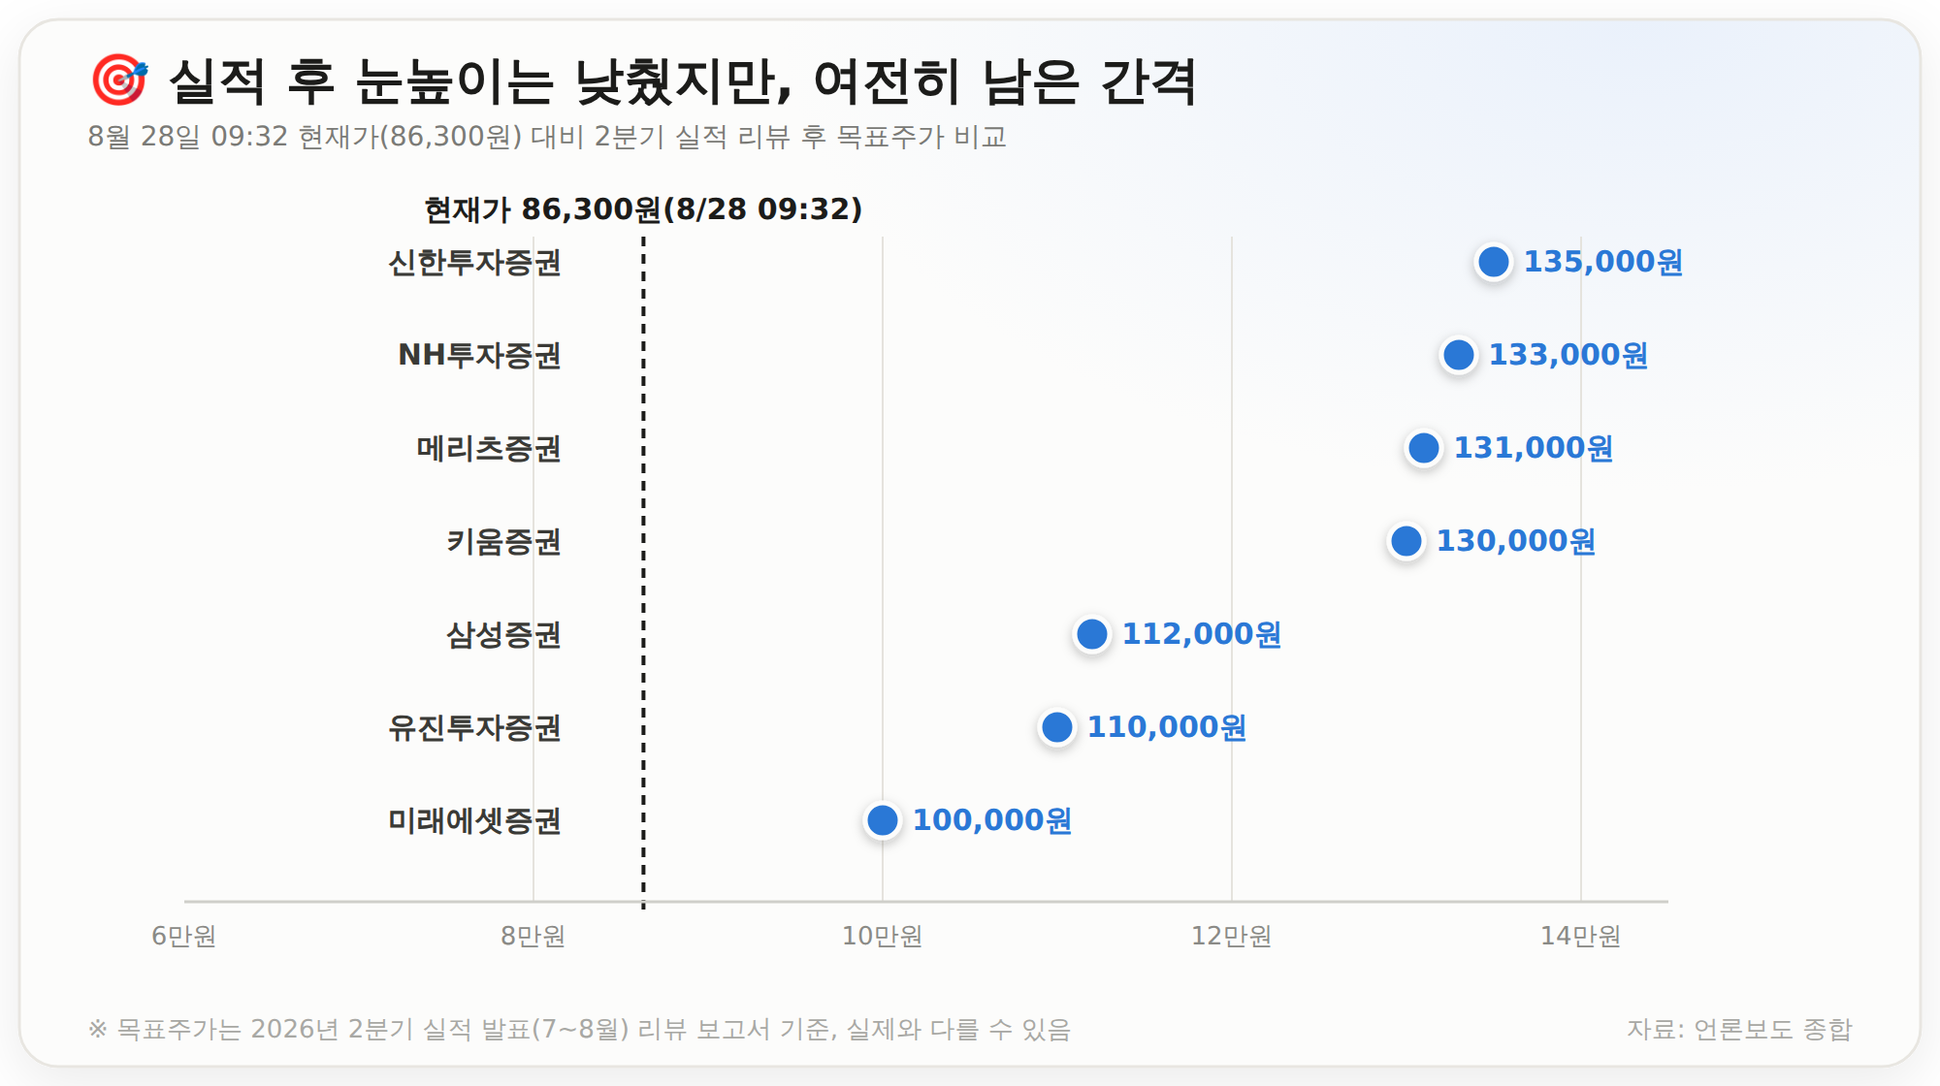
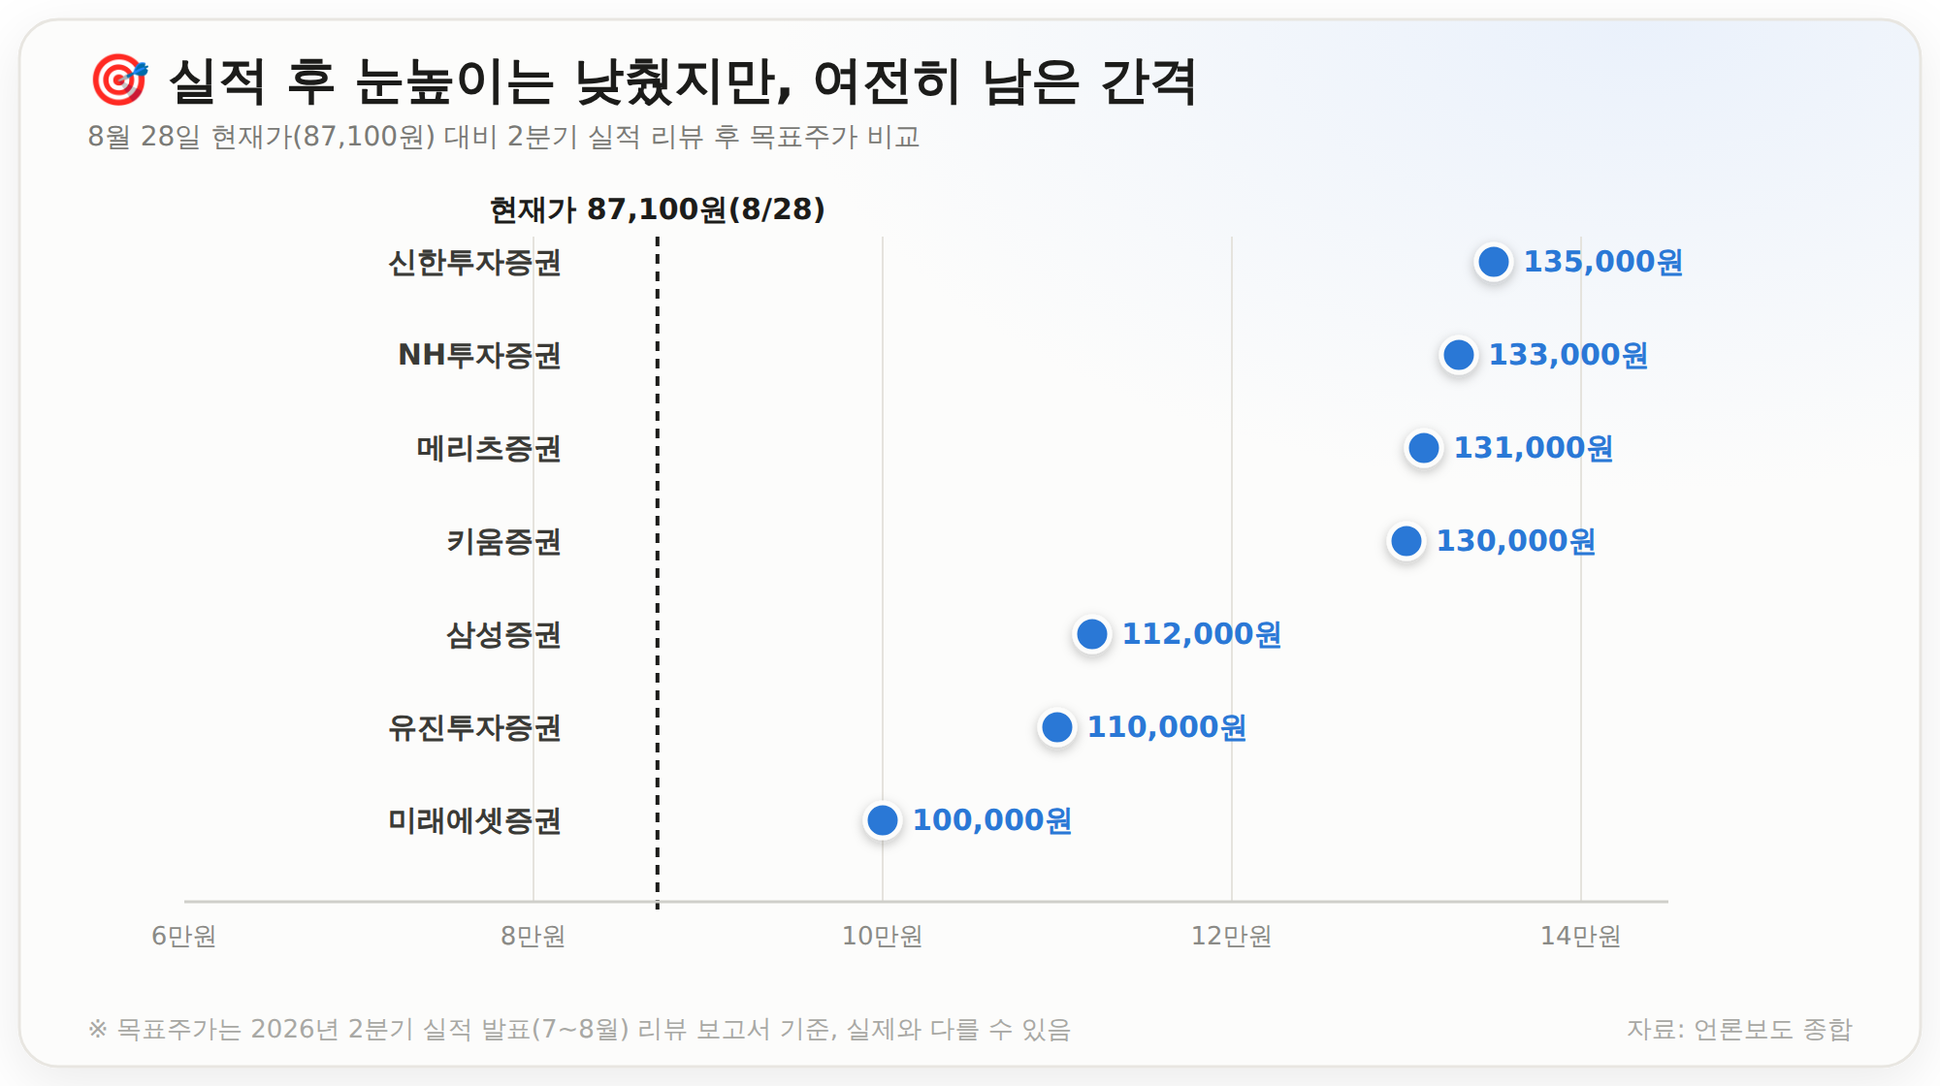
fix: 두산에너빌리티 일별 종가 재정정 - 사용자 제보 실측치 반영
- 7/7 종가 81,600원→80,600원
- 8/25 종가 80,700원→80,600원
- 8/26 종가(장중 표기였던) 84,300원→86,200원(종가)
- 8/28 현재가 86,300원(09:32)→87,100원, 시각 표기 제거(오전 표기 부정확)
- 고점 대비 등락률 -38%→-37%, 목표주가 괴리 41%→40%로 재계산
- 가격추이·목표주가·커버 이미지 3종 재생성

Changed region(s): [[0.093, 0.0938, 0.496, 0.2188]]

diff --git a/src/App.tsx b/src/App.tsx
@@ -19,7 +19,7 @@ const samplePosts: Post[] = [
 
 안녕하세요 대왕토끼입니다~ 🐰
 
-![두산에너빌리티 주식분석 커버 이미지 - 원전 재료는 쌓이는데 주가는 롤러코스터, 2026년 상반기 영업이익 5478억원 전년比 +32.4%, 수주잔고 26.3조원 상반기 신규수주 +89.6% 원전·SMR·가스터빈, 52주 최고가 139200원 8/28 현재가 86300원 고점 대비 -38%](/images/doosanenerbility-stock/doosanenerbility-cover.png)
+![두산에너빌리티 주식분석 커버 이미지 - 원전 재료는 쌓이는데 주가는 롤러코스터, 2026년 상반기 영업이익 5478억원 전년比 +32.4%, 수주잔고 26.3조원 상반기 신규수주 +89.6% 원전·SMR·가스터빈, 52주 최고가 139200원 8/28 현재가 87100원 고점 대비 -37%](/images/doosanenerbility-stock/doosanenerbility-cover.png)
 
 이번 글에서는 원전·SMR·가스터빈 3박자를 갖춘 국내 유일 발전설비 기업 **두산에너빌리티**를 살펴보려고 합니다. 앞서 GS건설 분석에서 SMR 세제지원 테마를 잠깐 언급했었는데, 그 테마의 중심에 있는 회사가 바로 여기예요. 실적과 수주는 꾸준히 좋아지고 있는데, 주가는 유독 롤러코스터를 타고 있어서 업황과 함께 짚어봤습니다.
 
@@ -70,9 +70,9 @@ const samplePosts: Post[] = [
 
 ### ① 5월 고점 이후 '반토막'
 
-두산에너빌리티 주가는 5월 7일 52주 최고가 139,200원을 기록한 이후 약 한 달 만에 큰 폭으로 조정받았어요. 6월 8일에는 장중 87,400원까지 밀리며(-8.58%) 고점 대비 거의 반토막이 났고, 7월에도 낙폭을 만회하지 못한 채 7월 7일 81,600원으로 장을 마쳤어요(장중 한때는 78,900원까지 밀리기도 했어요). 이건 회사 개별 악재라기보다 **글로벌 원전·전력기기 관련주 전반의 밸류에이션 조정**이 겹친 영향이라는 분석이 많아요.
+두산에너빌리티 주가는 5월 7일 52주 최고가 139,200원을 기록한 이후 약 한 달 만에 큰 폭으로 조정받았어요. 6월 8일에는 장중 87,400원까지 밀리며(-8.58%) 고점 대비 거의 반토막이 났고, 7월에도 낙폭을 만회하지 못한 채 7월 7일 80,600원으로 장을 마쳤어요(장중 한때는 78,900원까지 밀리기도 했어요). 이건 회사 개별 악재라기보다 **글로벌 원전·전력기기 관련주 전반의 밸류에이션 조정**이 겹친 영향이라는 분석이 많아요.
 
-![두산에너빌리티 종가 추이 차트 - 5월7일 52주 최고가 139,200원 이후 6월8일 87,400원, 7월7일 81,600원까지 조정, 8월25일 체코 원전·웨스팅하우스 이슈에 80,700원(+10.55%)으로 반등 시작, 8월26일 84,300원, 8월28일 오전 9시32분 현재가 86,300원까지 반등세 지속, 52주 최고가 대비 여전히 -38% 구간](/images/doosanenerbility-stock/doosanenerbility-price-trend.png)
+![두산에너빌리티 종가 추이 차트 - 5월7일 52주 최고가 139,200원 이후 6월8일 87,400원, 7월7일 80,600원까지 조정, 8월25일 체코 원전·웨스팅하우스 이슈에 80,600원으로 반등 시작, 8월26일 86,200원, 8월28일 현재가 87,100원까지 반등세 지속, 52주 최고가 대비 여전히 -37% 구간](/images/doosanenerbility-stock/doosanenerbility-price-trend.png)
 
 ### ② 실적 발표 직후엔 오히려 목표주가가 줄줄이 내려갔다
 
@@ -80,7 +80,7 @@ const samplePosts: Post[] = [
 
 ### ③ 8월 25일부터, 원전 재료가 한꺼번에 터지며 반등 시작
 
-그런데 8월 25일, 체코 원전·웨스팅하우스 지분 이슈·전력수요 전망 상향 소식이 겹치며 주가가 하루 만에 +10.55% 급등해 80,700원을 기록했어요. 기관이 992억원어치를 순매수하며 상승을 이끌었고, 다음 날인 8월 26일에도 장중 84,300원(+4.46%)까지 오르며 강세가 이어졌어요. 이 흐름은 이 글을 쓰는 8월 28일 오전 9시 32분 현재가(86,300원)까지도 이어지고 있어요.
+그런데 8월 25일, 체코 원전·웨스팅하우스 지분 이슈·전력수요 전망 상향 소식이 겹치며 주가가 하루 만에 10%대로 급등해 80,600원을 기록했어요. 기관이 992억원어치를 순매수하며 상승을 이끌었고, 다음 날인 8월 26일에는 86,200원까지 오르며 강세가 이어졌어요. 이 흐름은 이 글을 쓰는 8월 28일 현재가(87,100원)까지도 이어지고 있어요.
 
 즉 "실적이 나빠서 목표가가 내려간 것"이 아니라 "그동안 주가가 워낙 가파르게 올랐던 데 대한 밸류에이션 눈높이 조정"이 먼저 있었고, 그 뒤에 체코·웨스팅하우스 같은 실질적 재료가 나오며 주가가 다시 반등하는 흐름이라고 보는 게 정확해요.
 
@@ -88,7 +88,7 @@ const samplePosts: Post[] = [
 
 ## 5. 밸류에이션 - 목표주가와 현재가, 벌어질 대로 벌어진 간격
 
-8월 28일 오전 9시 32분 현재가(86,300원) 기준으로 보면, 2분기 실적 리뷰 후 하향 조정된 목표주가와도 여전히 상당한 괴리가 있어요.
+8월 28일 현재가(87,100원) 기준으로 보면, 2분기 실적 리뷰 후 하향 조정된 목표주가와도 여전히 상당한 괴리가 있어요.
 
 | 증권사 | 목표주가 | 비고 |
 | --- | --- | --- |
@@ -100,9 +100,9 @@ const samplePosts: Post[] = [
 | 유진투자증권 | 110,000원 | 15만원→11만원 하향 |
 | 미래에셋증권 | 100,000원 | 12만원→10만원 하향 |
 
-![두산에너빌리티 목표주가와 현재가 비교 차트 - 8월28일 오전 9시32분 현재가 86,300원 대비 미래에셋증권 100,000원, 유진투자증권 110,000원, 삼성증권 112,000원, 키움증권 130,000원, 메리츠증권 131,000원, NH투자증권 133,000원, 신한투자증권 135,000원으로 목표주가가 모두 현재가를 상회](/images/doosanenerbility-stock/doosanenerbility-target-price.png)
+![두산에너빌리티 목표주가와 현재가 비교 차트 - 8월28일 현재가 87,100원 대비 미래에셋증권 100,000원, 유진투자증권 110,000원, 삼성증권 112,000원, 키움증권 130,000원, 메리츠증권 131,000원, NH투자증권 133,000원, 신한투자증권 135,000원으로 목표주가가 모두 현재가를 상회](/images/doosanenerbility-stock/doosanenerbility-target-price.png)
 
-목표주가 평균은 약 12만 1,600원으로, 8월 28일 현재가 대비 41% 정도 높은 수준이에요. 목표가 자체는 실적 발표 직후 눈높이를 낮춘 값인데도 여전히 현재가와 상당한 괴리가 있다는 게 포인트예요. 이 괴리가 최근 며칠간의 반등으로 좁혀지는 흐름인지, 아니면 다음 리포트에서 목표가가 추가로 낮아질지가 관전 포인트예요.
+목표주가 평균은 약 12만 1,600원으로, 8월 28일 현재가 대비 40% 정도 높은 수준이에요. 목표가 자체는 실적 발표 직후 눈높이를 낮춘 값인데도 여전히 현재가와 상당한 괴리가 있다는 게 포인트예요. 이 괴리가 최근 며칠간의 반등으로 좁혀지는 흐름인지, 아니면 다음 리포트에서 목표가가 추가로 낮아질지가 관전 포인트예요.
 
 ---
 
@@ -130,7 +130,7 @@ const samplePosts: Post[] = [
 - 원자력 주기기를 만들 수 있는 국내 유일 제작사로, 국내외 원전·SMR 발주 확대의 직접 수혜가 기대돼요.
 - 상반기 신규수주가 전년比 +89.6% 급증하며 수주잔고 26.3조원을 쌓아, 향후 실적 가시성이 높아지고 있어요.
 - 체코 원전, 웨스팅하우스 지분 이슈, 전력수요 전망 상향 등 굵직한 재료가 동시다발적으로 쌓이고 있어요.
-- 목표주가 평균이 현재가 대비 41% 정도 높아, 저평가 매력이 부각될 수 있는 구간이에요.
+- 목표주가 평균이 현재가 대비 40% 정도 높아, 저평가 매력이 부각될 수 있는 구간이에요.
 
 **리스크**
 - 5월 고점 이후 두 달 넘게 이어진 조정에서 보듯 변동성이 매우 크고, 재료가 실제 계약으로 확정되기 전까지는 주가가 기대감만으로 출렁일 수 있어요.
@@ -142,7 +142,7 @@ const samplePosts: Post[] = [
 
 ## 8. 결론 및 투자자 시사점
 
-두산에너빌리티는 원전·SMR·가스터빈이라는 세 성장축을 모두 갖춘, 원전 슈퍼사이클의 한복판에 있는 회사예요. 상반기 신규수주가 90% 가까이 급증했고 영업이익도 뚜렷하게 회복되고 있지만, 정작 주가는 5월 고점(139,200원) 대비 여전히 38% 낮은 수준에서, 6~7월의 깊은 조정과 8월 25일 이후의 강한 반등을 오가는 큰 변동성을 보이고 있습니다.
+두산에너빌리티는 원전·SMR·가스터빈이라는 세 성장축을 모두 갖춘, 원전 슈퍼사이클의 한복판에 있는 회사예요. 상반기 신규수주가 90% 가까이 급증했고 영업이익도 뚜렷하게 회복되고 있지만, 정작 주가는 5월 고점(139,200원) 대비 여전히 37% 낮은 수준에서, 6~7월의 깊은 조정과 8월 25일 이후의 강한 반등을 오가는 큰 변동성을 보이고 있습니다.
 
 이건 실적이 나빠서가 아니라, 체코 원전·웨스팅하우스 같은 굵직한 재료들이 아직 '확정'이 아닌 '기대감' 단계에 머물러 있기 때문이에요. 목표주가와 현재가 사이의 큰 괴리를 어느 쪽으로 해석할지는, 앞으로 나올 체코 원전 계약 소식이나 12차 전력수급기본계획 같은 구체적인 확정 뉴스를 직접 확인하시면서 판단해보시길 추천드려요.
 

diff --git a/posts/stock/doosanenerbility-analysis.md b/posts/stock/doosanenerbility-analysis.md
@@ -10,7 +10,7 @@ naverCategory: "국내주식"
 
 안녕하세요 대왕토끼입니다~ 🐰
 
-![두산에너빌리티 주식분석 커버 이미지 - 원전 재료는 쌓이는데 주가는 롤러코스터, 2026년 상반기 영업이익 5478억원 전년比 +32.4%, 수주잔고 26.3조원 상반기 신규수주 +89.6% 원전·SMR·가스터빈, 52주 최고가 139200원 8/28 현재가 86300원 고점 대비 -38%](/images/doosanenerbility-stock/doosanenerbility-cover.png)
+![두산에너빌리티 주식분석 커버 이미지 - 원전 재료는 쌓이는데 주가는 롤러코스터, 2026년 상반기 영업이익 5478억원 전년比 +32.4%, 수주잔고 26.3조원 상반기 신규수주 +89.6% 원전·SMR·가스터빈, 52주 최고가 139200원 8/28 현재가 87100원 고점 대비 -37%](/images/doosanenerbility-stock/doosanenerbility-cover.png)
 
 이번 글에서는 원전·SMR·가스터빈 3박자를 갖춘 국내 유일 발전설비 기업 **두산에너빌리티**를 살펴보려고 합니다. 앞서 GS건설 분석에서 SMR 세제지원 테마를 잠깐 언급했었는데, 그 테마의 중심에 있는 회사가 바로 여기예요. 실적과 수주는 꾸준히 좋아지고 있는데, 주가는 유독 롤러코스터를 타고 있어서 업황과 함께 짚어봤습니다.
 
@@ -61,9 +61,9 @@ naverCategory: "국내주식"
 
 ### ① 5월 고점 이후 '반토막'
 
-두산에너빌리티 주가는 5월 7일 52주 최고가 139,200원을 기록한 이후 약 한 달 만에 큰 폭으로 조정받았어요. 6월 8일에는 장중 87,400원까지 밀리며(-8.58%) 고점 대비 거의 반토막이 났고, 7월에도 낙폭을 만회하지 못한 채 7월 7일 81,600원으로 장을 마쳤어요(장중 한때는 78,900원까지 밀리기도 했어요). 이건 회사 개별 악재라기보다 **글로벌 원전·전력기기 관련주 전반의 밸류에이션 조정**이 겹친 영향이라는 분석이 많아요.
+두산에너빌리티 주가는 5월 7일 52주 최고가 139,200원을 기록한 이후 약 한 달 만에 큰 폭으로 조정받았어요. 6월 8일에는 장중 87,400원까지 밀리며(-8.58%) 고점 대비 거의 반토막이 났고, 7월에도 낙폭을 만회하지 못한 채 7월 7일 80,600원으로 장을 마쳤어요(장중 한때는 78,900원까지 밀리기도 했어요). 이건 회사 개별 악재라기보다 **글로벌 원전·전력기기 관련주 전반의 밸류에이션 조정**이 겹친 영향이라는 분석이 많아요.
 
-![두산에너빌리티 종가 추이 차트 - 5월7일 52주 최고가 139,200원 이후 6월8일 87,400원, 7월7일 81,600원까지 조정, 8월25일 체코 원전·웨스팅하우스 이슈에 80,700원(+10.55%)으로 반등 시작, 8월26일 84,300원, 8월28일 오전 9시32분 현재가 86,300원까지 반등세 지속, 52주 최고가 대비 여전히 -38% 구간](/images/doosanenerbility-stock/doosanenerbility-price-trend.png)
+![두산에너빌리티 종가 추이 차트 - 5월7일 52주 최고가 139,200원 이후 6월8일 87,400원, 7월7일 80,600원까지 조정, 8월25일 체코 원전·웨스팅하우스 이슈에 80,600원으로 반등 시작, 8월26일 86,200원, 8월28일 현재가 87,100원까지 반등세 지속, 52주 최고가 대비 여전히 -37% 구간](/images/doosanenerbility-stock/doosanenerbility-price-trend.png)
 
 ### ② 실적 발표 직후엔 오히려 목표주가가 줄줄이 내려갔다
 
@@ -71,7 +71,7 @@ naverCategory: "국내주식"
 
 ### ③ 8월 25일부터, 원전 재료가 한꺼번에 터지며 반등 시작
 
-그런데 8월 25일, 체코 원전·웨스팅하우스 지분 이슈·전력수요 전망 상향 소식이 겹치며 주가가 하루 만에 +10.55% 급등해 80,700원을 기록했어요. 기관이 992억원어치를 순매수하며 상승을 이끌었고, 다음 날인 8월 26일에도 장중 84,300원(+4.46%)까지 오르며 강세가 이어졌어요. 이 흐름은 이 글을 쓰는 8월 28일 오전 9시 32분 현재가(86,300원)까지도 이어지고 있어요.
+그런데 8월 25일, 체코 원전·웨스팅하우스 지분 이슈·전력수요 전망 상향 소식이 겹치며 주가가 하루 만에 10%대로 급등해 80,600원을 기록했어요. 기관이 992억원어치를 순매수하며 상승을 이끌었고, 다음 날인 8월 26일에는 86,200원까지 오르며 강세가 이어졌어요. 이 흐름은 이 글을 쓰는 8월 28일 현재가(87,100원)까지도 이어지고 있어요.
 
 즉 "실적이 나빠서 목표가가 내려간 것"이 아니라 "그동안 주가가 워낙 가파르게 올랐던 데 대한 밸류에이션 눈높이 조정"이 먼저 있었고, 그 뒤에 체코·웨스팅하우스 같은 실질적 재료가 나오며 주가가 다시 반등하는 흐름이라고 보는 게 정확해요.
 
@@ -79,7 +79,7 @@ naverCategory: "국내주식"
 
 ## 5. 밸류에이션 - 목표주가와 현재가, 벌어질 대로 벌어진 간격
 
-8월 28일 오전 9시 32분 현재가(86,300원) 기준으로 보면, 2분기 실적 리뷰 후 하향 조정된 목표주가와도 여전히 상당한 괴리가 있어요.
+8월 28일 현재가(87,100원) 기준으로 보면, 2분기 실적 리뷰 후 하향 조정된 목표주가와도 여전히 상당한 괴리가 있어요.
 
 | 증권사 | 목표주가 | 비고 |
 | --- | --- | --- |
@@ -91,9 +91,9 @@ naverCategory: "국내주식"
 | 유진투자증권 | 110,000원 | 15만원→11만원 하향 |
 | 미래에셋증권 | 100,000원 | 12만원→10만원 하향 |
 
-![두산에너빌리티 목표주가와 현재가 비교 차트 - 8월28일 오전 9시32분 현재가 86,300원 대비 미래에셋증권 100,000원, 유진투자증권 110,000원, 삼성증권 112,000원, 키움증권 130,000원, 메리츠증권 131,000원, NH투자증권 133,000원, 신한투자증권 135,000원으로 목표주가가 모두 현재가를 상회](/images/doosanenerbility-stock/doosanenerbility-target-price.png)
+![두산에너빌리티 목표주가와 현재가 비교 차트 - 8월28일 현재가 87,100원 대비 미래에셋증권 100,000원, 유진투자증권 110,000원, 삼성증권 112,000원, 키움증권 130,000원, 메리츠증권 131,000원, NH투자증권 133,000원, 신한투자증권 135,000원으로 목표주가가 모두 현재가를 상회](/images/doosanenerbility-stock/doosanenerbility-target-price.png)
 
-목표주가 평균은 약 12만 1,600원으로, 8월 28일 현재가 대비 41% 정도 높은 수준이에요. 목표가 자체는 실적 발표 직후 눈높이를 낮춘 값인데도 여전히 현재가와 상당한 괴리가 있다는 게 포인트예요. 이 괴리가 최근 며칠간의 반등으로 좁혀지는 흐름인지, 아니면 다음 리포트에서 목표가가 추가로 낮아질지가 관전 포인트예요.
+목표주가 평균은 약 12만 1,600원으로, 8월 28일 현재가 대비 40% 정도 높은 수준이에요. 목표가 자체는 실적 발표 직후 눈높이를 낮춘 값인데도 여전히 현재가와 상당한 괴리가 있다는 게 포인트예요. 이 괴리가 최근 며칠간의 반등으로 좁혀지는 흐름인지, 아니면 다음 리포트에서 목표가가 추가로 낮아질지가 관전 포인트예요.
 
 ---
 
@@ -121,7 +121,7 @@ naverCategory: "국내주식"
 - 원자력 주기기를 만들 수 있는 국내 유일 제작사로, 국내외 원전·SMR 발주 확대의 직접 수혜가 기대돼요.
 - 상반기 신규수주가 전년比 +89.6% 급증하며 수주잔고 26.3조원을 쌓아, 향후 실적 가시성이 높아지고 있어요.
 - 체코 원전, 웨스팅하우스 지분 이슈, 전력수요 전망 상향 등 굵직한 재료가 동시다발적으로 쌓이고 있어요.
-- 목표주가 평균이 현재가 대비 41% 정도 높아, 저평가 매력이 부각될 수 있는 구간이에요.
+- 목표주가 평균이 현재가 대비 40% 정도 높아, 저평가 매력이 부각될 수 있는 구간이에요.
 
 **리스크**
 - 5월 고점 이후 두 달 넘게 이어진 조정에서 보듯 변동성이 매우 크고, 재료가 실제 계약으로 확정되기 전까지는 주가가 기대감만으로 출렁일 수 있어요.
@@ -133,7 +133,7 @@ naverCategory: "국내주식"
 
 ## 8. 결론 및 투자자 시사점
 
-두산에너빌리티는 원전·SMR·가스터빈이라는 세 성장축을 모두 갖춘, 원전 슈퍼사이클의 한복판에 있는 회사예요. 상반기 신규수주가 90% 가까이 급증했고 영업이익도 뚜렷하게 회복되고 있지만, 정작 주가는 5월 고점(139,200원) 대비 여전히 38% 낮은 수준에서, 6~7월의 깊은 조정과 8월 25일 이후의 강한 반등을 오가는 큰 변동성을 보이고 있습니다.
+두산에너빌리티는 원전·SMR·가스터빈이라는 세 성장축을 모두 갖춘, 원전 슈퍼사이클의 한복판에 있는 회사예요. 상반기 신규수주가 90% 가까이 급증했고 영업이익도 뚜렷하게 회복되고 있지만, 정작 주가는 5월 고점(139,200원) 대비 여전히 37% 낮은 수준에서, 6~7월의 깊은 조정과 8월 25일 이후의 강한 반등을 오가는 큰 변동성을 보이고 있습니다.
 
 이건 실적이 나빠서가 아니라, 체코 원전·웨스팅하우스 같은 굵직한 재료들이 아직 '확정'이 아닌 '기대감' 단계에 머물러 있기 때문이에요. 목표주가와 현재가 사이의 큰 괴리를 어느 쪽으로 해석할지는, 앞으로 나올 체코 원전 계약 소식이나 12차 전력수급기본계획 같은 구체적인 확정 뉴스를 직접 확인하시면서 판단해보시길 추천드려요.
 
